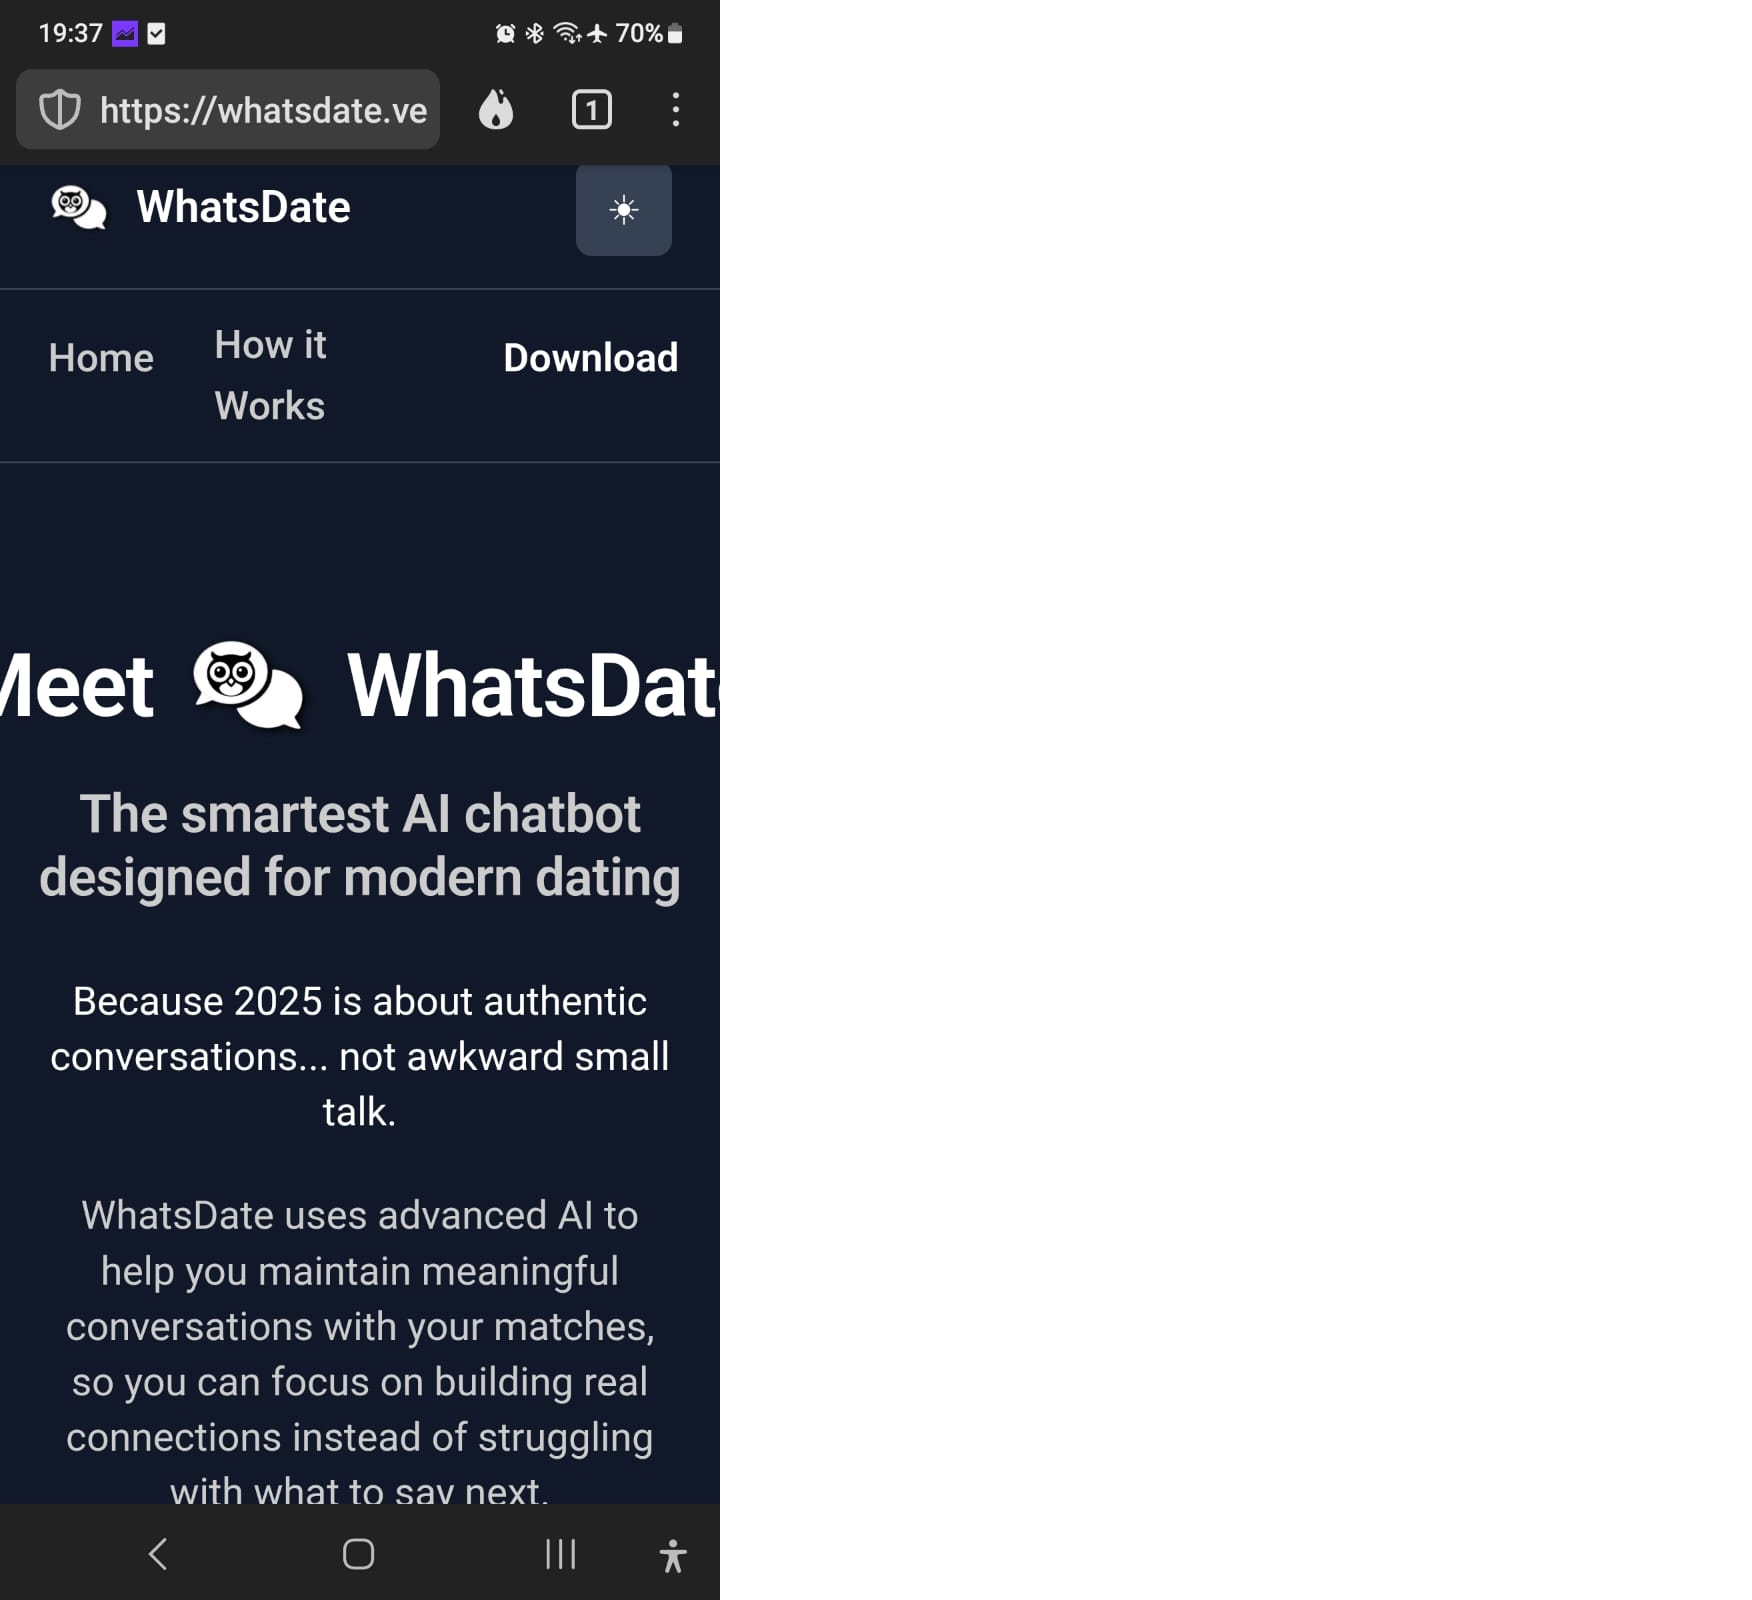
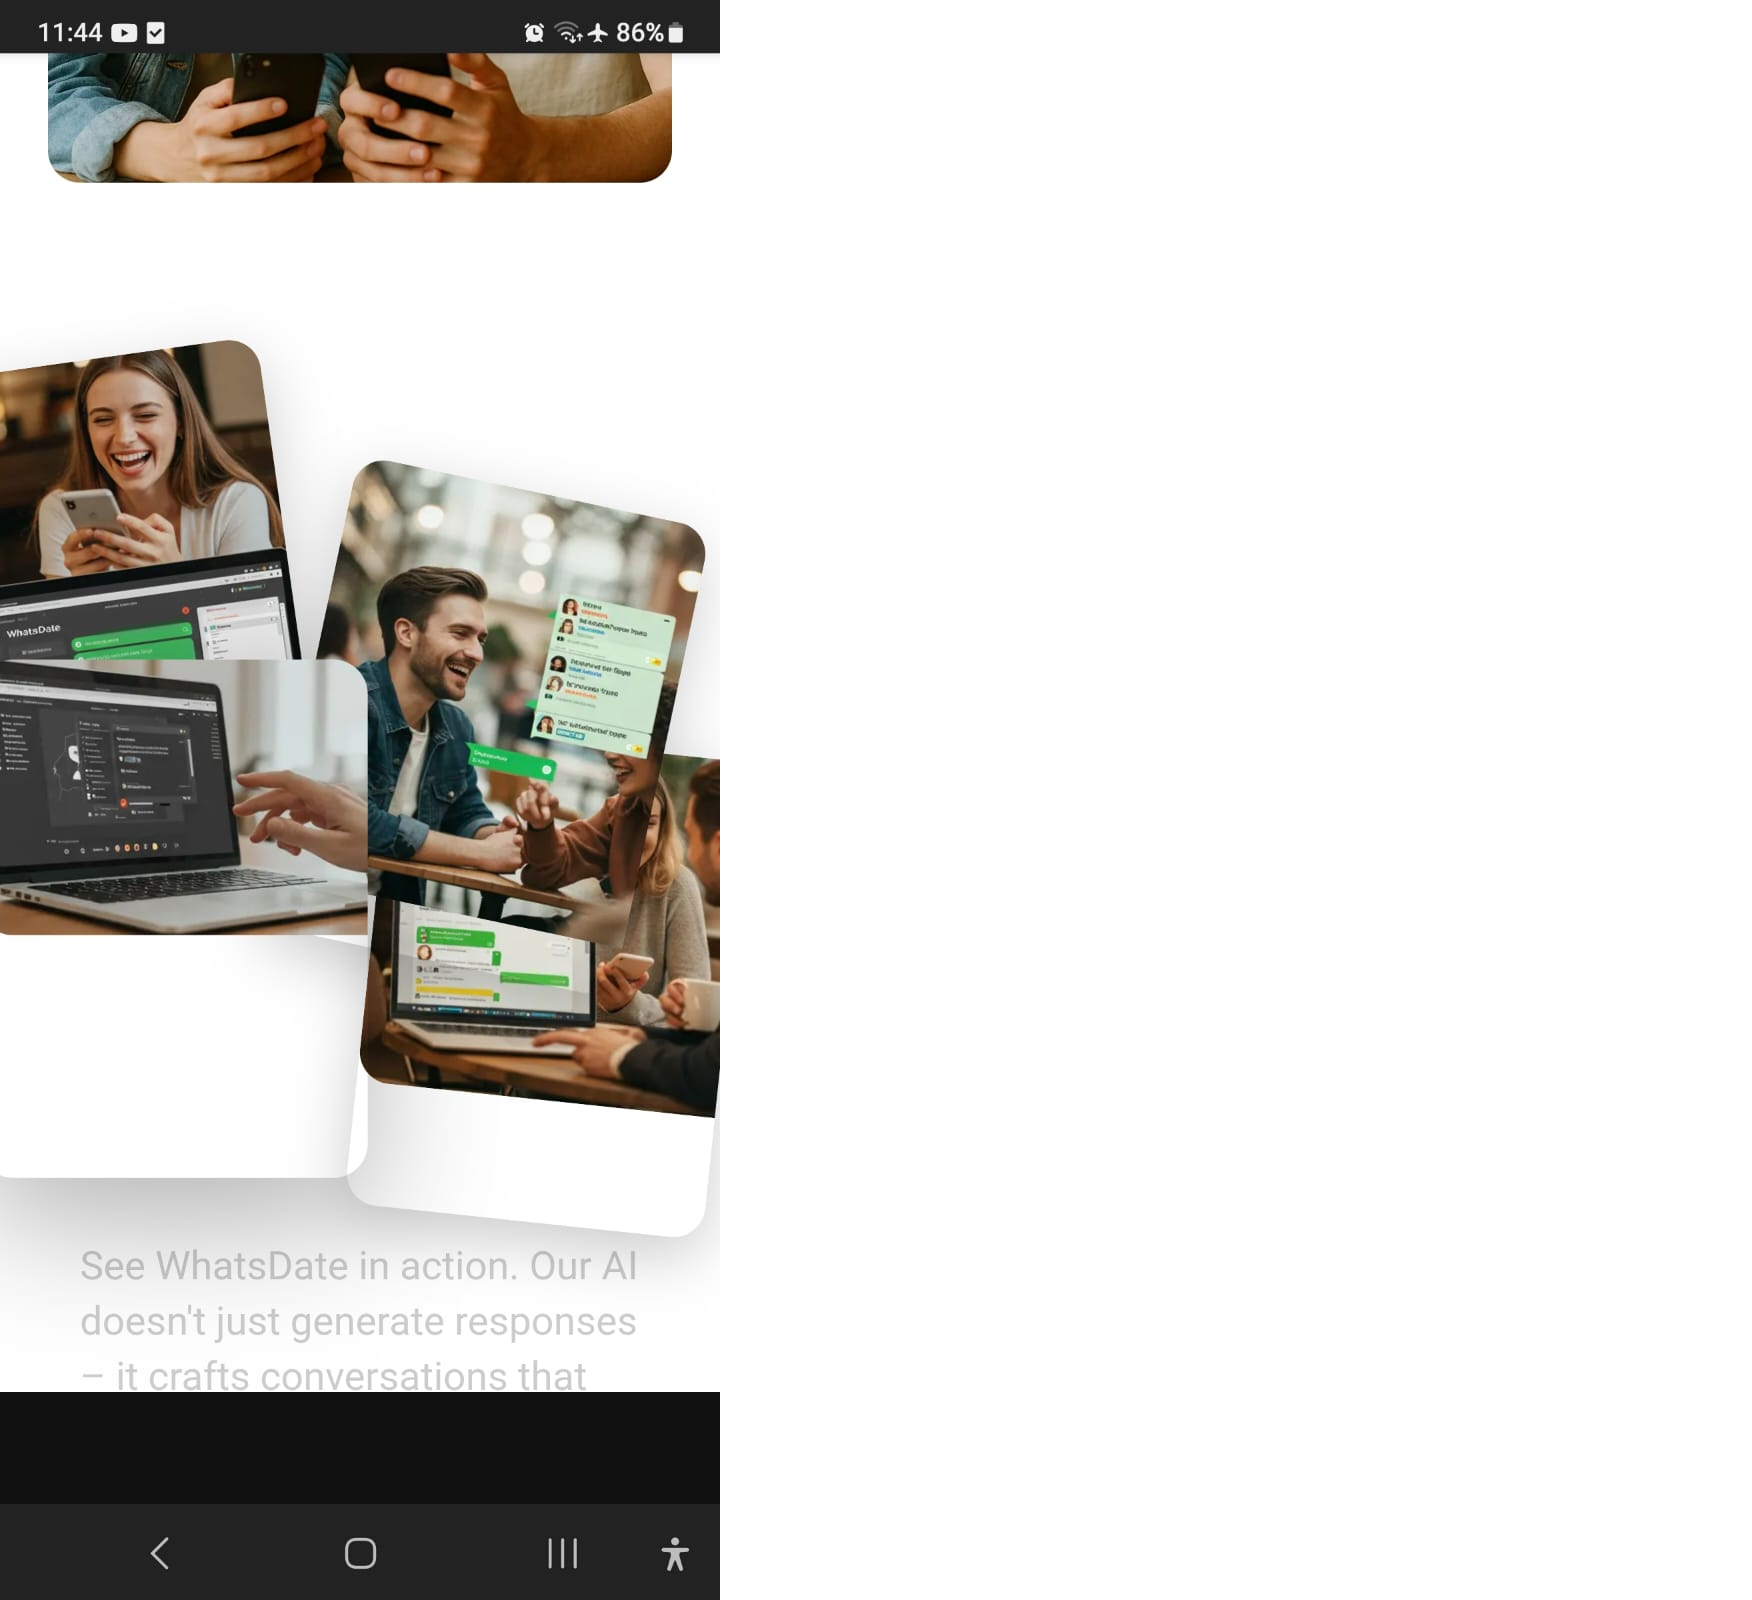
Update: -06-2025_11-51

diff --git a/src/app/page.tsx b/src/app/page.tsx
@@ -154,9 +154,31 @@ export default function Home() {
       {/* Carousel Section */}
       <section className={`w-full py-20 px-6 ${theme === 'light' ? 'bg-white' : 'bg-gray-900'}`}>
         <div className="max-w-6xl mx-auto">
-          <div className="grid md:grid-cols-2 gap-12 items-center">
-            <div className="relative w-full h-80 md:h-96 mx-4">
-              <div className="thursday-carousel w-full h-full relative overflow-hidden rounded-2xl">
+          <div className="flex flex-col md:grid md:grid-cols-2 gap-12 items-center">
+            {/* Text first on mobile, second on desktop */}
+            <div className="px-4 order-2 md:order-2">
+              <p className="text-paragraph text-secondary mb-8">
+                See WhatsDate in action. Our AI doesn't just generate responses – it crafts conversations that feel authentic and engaging. Watch how natural interactions unfold when you have the perfect words at the right moment.
+              </p>
+              <div className="space-y-4">
+                <div className="flex items-center gap-3">
+                  <div className="w-2 h-2 bg-green-400 rounded-full"></div>
+                  <span className="text-paragraph text-secondary">Real conversation examples</span>
+                </div>
+                <div className="flex items-center gap-3">
+                  <div className="w-2 h-2 bg-green-400 rounded-full"></div>
+                  <span className="text-paragraph text-secondary">AI-powered response generation</span>
+                </div>
+                <div className="flex items-center gap-3">
+                  <div className="w-2 h-2 bg-green-400 rounded-full"></div>
+                  <span className="text-paragraph text-secondary">Seamless WhatsApp integration</span>
+                </div>
+              </div>
+            </div>
+            
+            {/* Images second on mobile, first on desktop */}
+            <div className="relative w-full order-1 md:order-1">
+              <div className="thursday-carousel relative mx-auto" style={{width: 'fit-content', height: 'fit-content'}}>
                 <div className="carousel-image-container image-1">
                   <Image 
                     src="/Mosaic1.png" 
@@ -192,25 +214,6 @@ export default function Home() {
                     height={600}
                     className="carousel-image object-cover"
                   />
-                </div>
-              </div>
-            </div>
-            <div className="px-4">
-              <p className="text-paragraph text-secondary mb-8">
-                See WhatsDate in action. Our AI doesn't just generate responses – it crafts conversations that feel authentic and engaging. Watch how natural interactions unfold when you have the perfect words at the right moment.
-              </p>
-              <div className="space-y-4">
-                <div className="flex items-center gap-3">
-                  <div className="w-2 h-2 bg-green-400 rounded-full"></div>
-                  <span className="text-paragraph text-secondary">Real conversation examples</span>
-                </div>
-                <div className="flex items-center gap-3">
-                  <div className="w-2 h-2 bg-green-400 rounded-full"></div>
-                  <span className="text-paragraph text-secondary">AI-powered response generation</span>
-                </div>
-                <div className="flex items-center gap-3">
-                  <div className="w-2 h-2 bg-green-400 rounded-full"></div>
-                  <span className="text-paragraph text-secondary">Seamless WhatsApp integration</span>
                 </div>
               </div>
             </div>

diff --git a/src/app/globals.css b/src/app/globals.css
@@ -221,6 +221,34 @@ body, .transition-all, .transition-colors {
   z-index: 1;
 }
 
+/* Mobile responsive adjustments */
+@media (max-width: 768px) {
+  .carousel-image {
+    max-width: 120px;
+    max-height: 180px;
+  }
+  
+  .image-1 {
+    top: 30%;
+    left: 30%;
+  }
+
+  .image-2 {
+    top: 20%;
+    left: 60%;
+  }
+
+  .image-3 {
+    top: 60%;
+    left: 40%;
+  }
+
+  .image-4 {
+    top: 70%;
+    left: 70%;
+  }
+}
+
 /* Hover effects */
 .carousel-image-container:hover {
   z-index: 10 !important;
